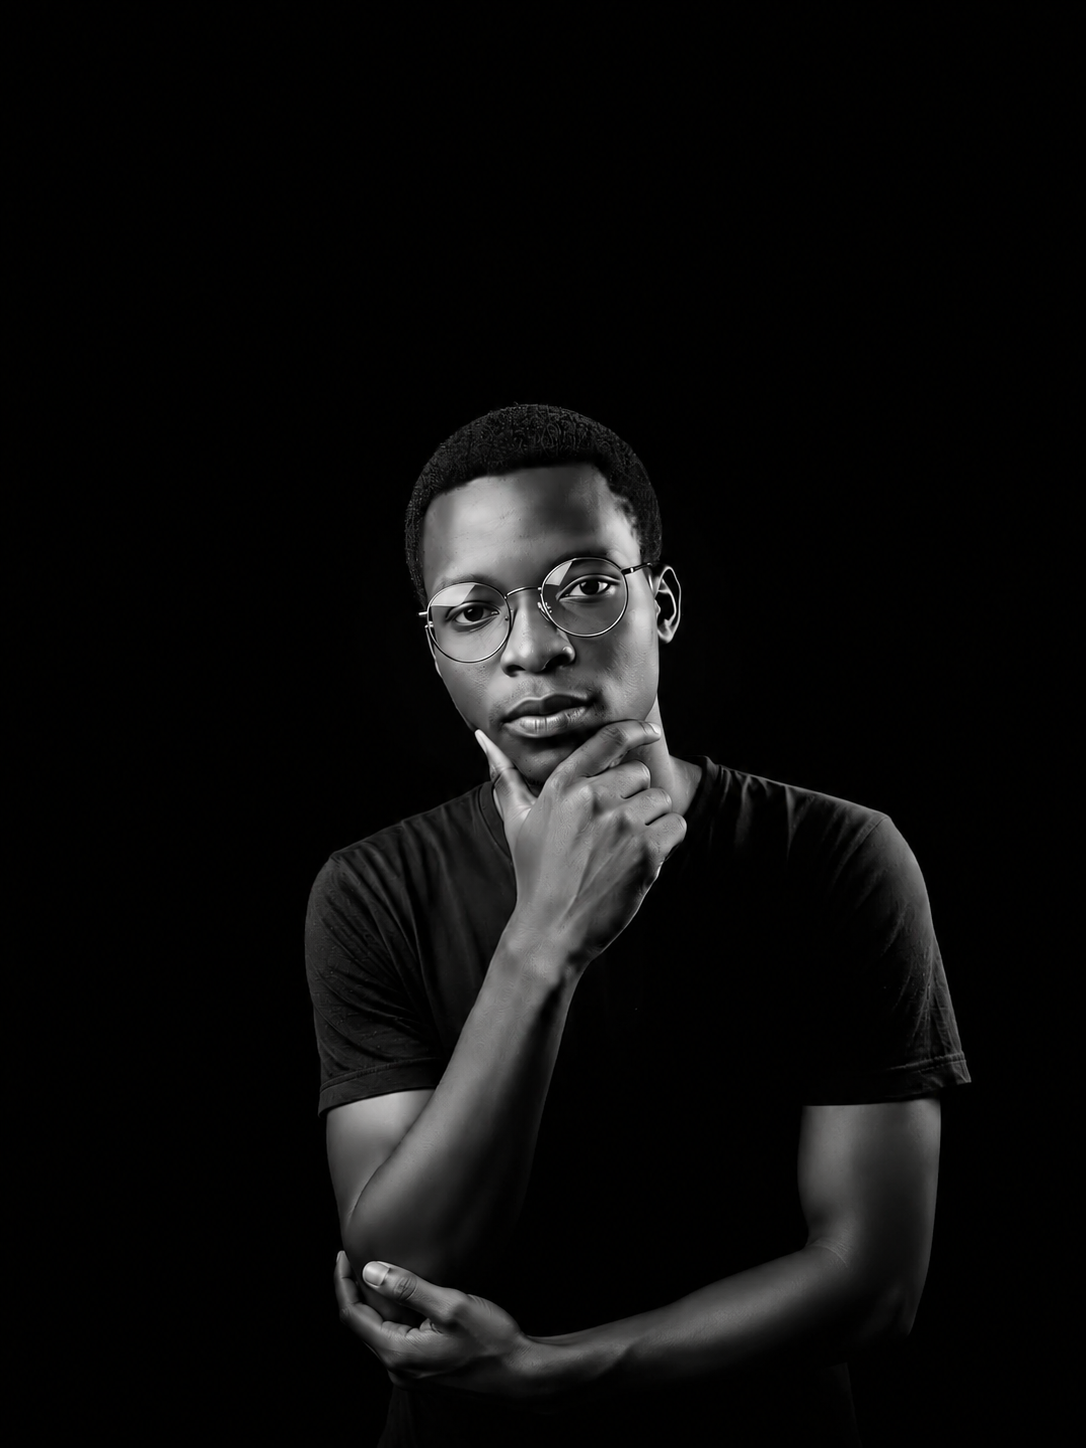
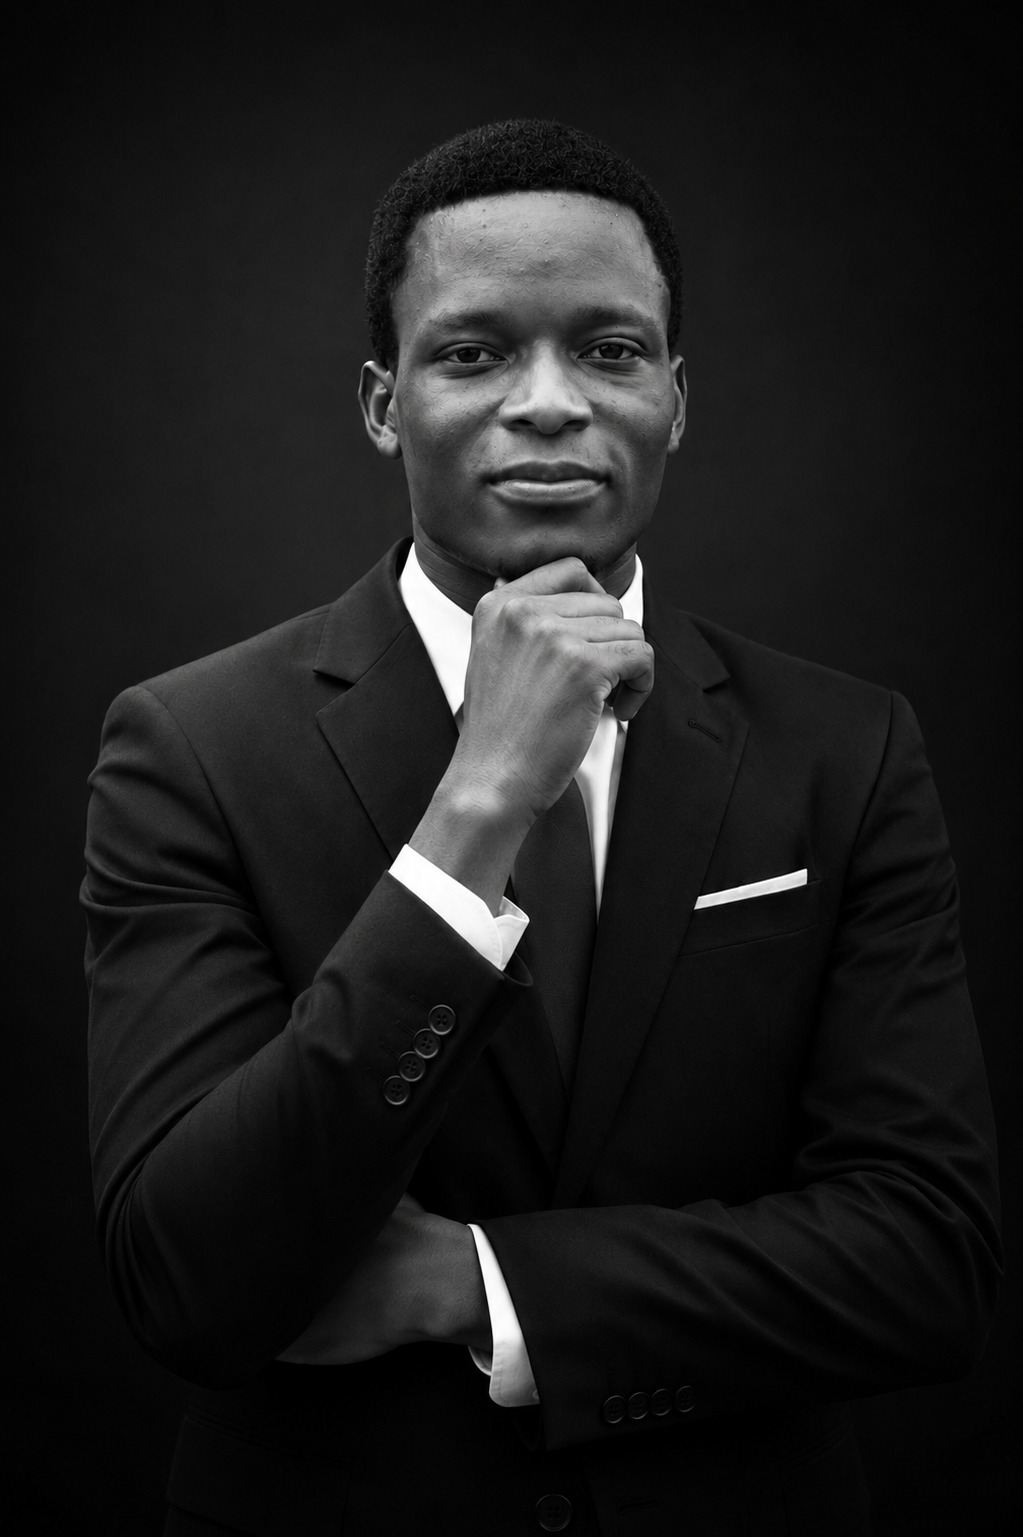
fix

diff --git a/app/components/landings/CityLanding.tsx b/app/components/landings/CityLanding.tsx
@@ -33,7 +33,7 @@ export default function CityLanding({ city }: { city: LocalCity }) {
         name: `${siteConfig.name} — Développeur Web & Mobile à ${city.name}`,
         description: city.metaDescription,
         url,
-        image: `${siteConfig.url}/portrait.webp`,
+        image: `${siteConfig.url}/portrait.png`,
         telephone: contactInfo.phoneRaw,
         email: contactInfo.email,
         priceRange: "$$",
@@ -160,9 +160,9 @@ export default function CityLanding({ city }: { city: LocalCity }) {
               Le digital au service de {city.name}
             </h2>
             <p className="mb-6 text-foreground-muted text-sm">
-              Des solutions pensées pour les réalités économiques de{" "}
-              {city.name} et du département{" "}
-              {city.department === "Littoral" ? "du" : "de"} {city.department} :
+              Des solutions pensées pour les réalités économiques de {city.name}{" "}
+              et du département {city.department === "Littoral" ? "du" : "de"}{" "}
+              {city.department} :
             </p>
             <div className="gap-4 grid md:grid-cols-2">
               {city.opportunities.map((opportunity) => {
@@ -280,11 +280,11 @@ export default function CityLanding({ city }: { city: LocalCity }) {
               {city.faq.map((item) => (
                 <details
                   key={item.question}
-                  className="group bg-card border border-stroke rounded-2xl open:pb-5"
+                  className="group bg-card open:pb-5 border border-stroke rounded-2xl"
                 >
                   <summary className="flex justify-between items-center gap-4 p-5 font-medium text-foreground cursor-pointer list-none">
                     {item.question}
-                    <ChevronRight className="w-5 h-5 text-foreground-muted transition-transform group-open:rotate-90 shrink-0" />
+                    <ChevronRight className="w-5 h-5 text-foreground-muted group-open:rotate-90 transition-transform shrink-0" />
                   </summary>
                   <p className="px-5 text-foreground-muted text-sm leading-relaxed">
                     {item.answer}

diff --git a/app/layout.tsx b/app/layout.tsx
@@ -1,6 +1,6 @@
 import type { Metadata } from "next";
 import { Outfit, Plus_Jakarta_Sans } from "next/font/google";
-import "./globals.css";
+import ".globals.css";
 import Header from "./components/Header";
 import Footer from "./components/Footer";
 import MotionProvider from "./components/MotionProvider";
@@ -97,7 +97,7 @@ const jsonLd = {
       "@id": `${baseUrl}/#person`,
       name: "Néhémie Gandonou",
       url: baseUrl,
-      image: `${baseUrl}/portrait.webp`,
+      image: `${baseUrl}/portrait.png`,
       sameAs: [
         "https://github.com/gajonedev",
         "https://linkedin.com/in/gajonedev",
@@ -129,7 +129,7 @@ const jsonLd = {
       "@type": "LocalBusiness",
       "@id": `${baseUrl}/#business`,
       name: "Néhémie Gandonou - Développeur Web",
-      image: `${baseUrl}/portrait.webp`,
+      image: `${baseUrl}/portrait.png`,
       url: baseUrl,
       telephone: "+2290146897322",
       email: "gajonedev@gmail.com",

diff --git a/app/components/sections/Hero.tsx b/app/components/sections/Hero.tsx
@@ -98,7 +98,7 @@ export default function Hero() {
             {/* glass card kept as-is */}
             <div className="bg-background-soft/60 backdrop-blur-md p-3 border border-stroke rounded-[2rem] glassw">
               <Image
-                src="/portrait.webp"
+                src="/portrait.png"
                 alt="Portrait de Néhémie Gandonou, développeur web et mobile"
                 width={360}
                 height={440}
